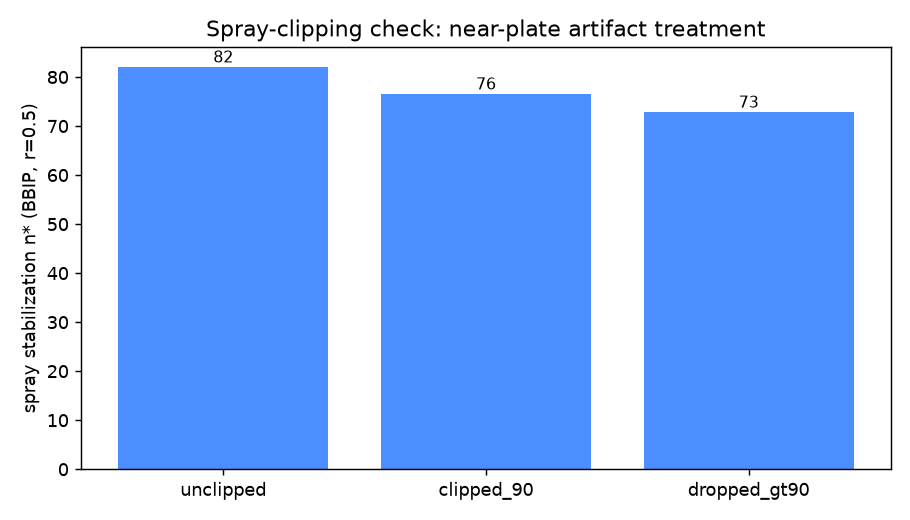
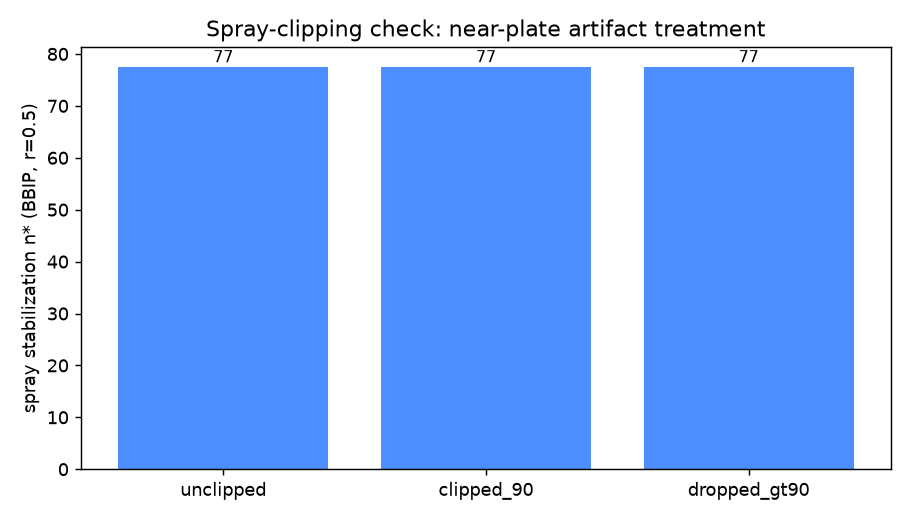
finished c1, stuck on c2 going to retry

diff --git a/src/analysis/claim1_eval.py b/src/analysis/claim1_eval.py
@@ -40,14 +40,14 @@ measurement. Errors add in quadrature:
 
 so every model, however good, pays the same irreducible noise tax and RMSE is
 trapped in a narrow band. On the 2024 frame that tax is ~60-70% of the mean squared
-error in every stratum (low stratum: floor 0.0472 of an observed 0.0600), which
+error in every stratum (low stratum: floor 0.0465 of an observed 0.0591), which
 compresses real differences into what looks like rounding. `score` therefore reports
 `noise_floor` and the deconvolved `model_rmse` alongside the raw PA-weighted RMSE.
 The raw metric is unchanged and remains the frozen §5.2 number; the extra columns
 only make it legible.
 
 The floor is per stratum, not global — it is set by how many PA sit in THAT
-stratum's answer key (low ~103 PA -> 0.0472; high ~232 PA -> 0.0332). The
+stratum's answer key (low ~96 PA -> 0.0465; high ~251 PA -> 0.0330). The
 deconvolution assumes model error and target sampling noise are independent, which
 holds because no model sees the held-out season. It is an estimate and is labeled
 as one wherever reported.
@@ -63,13 +63,19 @@ import pandas as pd
 from src.config.splits import load_splits
 
 # Stratum boundaries in prior side-specific PA. Derived from the B.1 result, not
-# chosen by round-number convenience: side-specific wOBA stabilizes at n* ~= 190 PA
-# (variance-components estimate, lab notebook 2026-07-21). Below n*/2 the observed
-# split is noise-dominated — the regime the small-sample thesis exists to serve.
-# Above 2*n* the hitter's own observed split is trustworthy on its own and a model
-# has little to add.
-STABILIZATION_N_STAR = 190
-STRATUM_BOUNDARIES = (STABILIZATION_N_STAR // 2, STABILIZATION_N_STAR * 2)  # (95, 380)
+# chosen by round-number convenience: side-specific wOBA vs LHP stabilizes at
+# n* ~= 226 PA (variance-components estimate on TRAIN seasons, hitters only). Below
+# n*/2 the observed split is noise-dominated — the regime the small-sample thesis
+# exists to serve. Above 2*n* the hitter's own observed split is trustworthy on its
+# own and a model has little to add.
+#
+# The vs-LHP figure anchors the cuts (rather than vs-RHP's 254) because the scarce
+# side is the one the thesis is graded on. Revised 2026-07-27 from 190: the earlier
+# value was estimated on a population that still included pitchers taking their own
+# at-bats, whose ~.15 wOBA inflated between-hitter signal variance and so biased n*
+# downward. Hitters-only CI [199, 264].
+STABILIZATION_N_STAR = 226
+STRATUM_BOUNDARIES = (STABILIZATION_N_STAR // 2, STABILIZATION_N_STAR * 2)  # (113, 452)
 STRATUM_NAMES = ("low", "medium", "high")
 
 # A hitter with a handful of held-out PA has an essentially random observed wOBA;
@@ -136,7 +142,11 @@ def build_eval_frame(pa_df, predictions, eval_season, min_eval_pa=MIN_EVAL_PA,
     pa_df: PA-level eval targets; predictions: frame with batter/season/p_throws/pred_woba.
     Returns (eval_frame, coverage) where coverage records what was dropped and why.
     """
-    from src.data.eval_targets import aggregate
+    from src.data.eval_targets import aggregate, drop_pitcher_batters
+
+    # claim 1 projects HITTERS; pitchers taking their own turn at bat are not the
+    # population. A no-op on DH-era eval seasons, correct on any earlier one.
+    pa_df = drop_pitcher_batters(pa_df)
 
     assert set(KEY + ["pred_woba"]).issubset(predictions.columns), \
         f"predictions must have {KEY + ['pred_woba']}, got {list(predictions.columns)}"
@@ -235,6 +245,11 @@ def deconvolve(rmse, floor):
     return float(np.sqrt(max(0.0, rmse**2 - floor**2)))
 
 
+# ponytail: model-vs-model claims currently compare two absolute RMSEs, each inflated
+# by the same target noise. The powerful form is a PAIRED loss differential —
+# per-hitter squared-error differences, where the shared noise largely cancels —
+# bootstrapped over hitters within stratum for a CI (Diebold-Mariano). Deferred to the
+# first genuine head-to-head (C.2 vs C.1) since it needs two real models to be useful.
 def skill_score(model_rmse, reference_model_rmse):
     """
     Share of the reference's true error the model eliminates, in variance terms:

diff --git a/src/data/eval_targets.py b/src/data/eval_targets.py
@@ -128,6 +128,55 @@ def build(snapshot_dir, seasons=None, weights=None):
     return df
 
 
+# Mirror of clean.py's position-player-pitcher rule, in the batting direction. Real
+# pitchers face hundreds of batters a season; a pitcher who ALSO takes a full slate of
+# PA is a two-way player (Ohtani) and is a genuine hitter, so both conditions are
+# required. Thresholds match clean.py's for consistency.
+PITCHER_MIN_BATTERS_FACED = 50
+TWO_WAY_MIN_PA = 50
+
+
+def primarily_pitchers(pa_df):
+    """
+    Batter ids that are pitchers taking their own turn at bat, per season.
+
+    The eval-target table is built from the COMPLETE source on purpose, so it contains
+    every PA including NL pitchers batting before the 2022 universal DH — roughly half
+    the distinct batters in 2015-2021. That is correct for the target itself (ground
+    truth must not be filtered), but any quantity describing HITTER talent — a prior,
+    a stabilization point, a league average a projection shrinks toward — must exclude
+    them, or a population of ~.15-wOBA non-hitters contaminates it.
+
+    Returns a set of (season, batter) pairs.
+    """
+    out = set()
+    for season, frame in pa_df.groupby("season"):
+        pa_key = frame[["batter", "game_pk", "at_bat_number"]].drop_duplicates()
+        batted = pa_key.groupby("batter").size()
+        faced = frame[["pitcher", "game_pk", "at_bat_number"]].drop_duplicates().groupby("pitcher").size()
+
+        real_pitchers = set(faced[faced >= PITCHER_MIN_BATTERS_FACED].index)
+        two_way = set(batted[batted >= TWO_WAY_MIN_PA].index)
+        # only ids that actually took a PA are meaningful here — a pitcher who never
+        # batted needs no exclusion and would just clutter the set
+        out.update((season, batter)
+                   for batter in (real_pitchers & set(batted.index)) - two_way)
+    return out
+
+
+def drop_pitcher_batters(pa_df):
+    """
+    Remove pitchers' own plate appearances. Use for every hitter-talent quantity;
+    never for the evaluation target itself.
+    """
+    excluded = primarily_pitchers(pa_df)
+    if not excluded:
+        return pa_df
+    keys = pd.MultiIndex.from_arrays([pa_df["season"], pa_df["batter"]])
+    mask = ~keys.isin(excluded)
+    return pa_df[mask]
+
+
 def aggregate(pa_df, by=("batter", "season", "p_throws")):
     """
     Roll the PA-level table up to wOBA per group (default: hitter x season x pitcher hand).

diff --git a/tests/test_eval_targets.py b/tests/test_eval_targets.py
@@ -88,3 +88,46 @@ def test_aggregate_splits_by_pitcher_hand():
     by_hand = dict(zip(agg["p_throws"], agg["woba"]))
     assert by_hand["R"] == pytest.approx(2.0)   # lone HR / denom 1
     assert by_hand["L"] == pytest.approx(0.0)   # lone strikeout / denom 1
+
+
+# ---- gates: pitcher-batter identification (hitter-talent quantities only) ----
+
+def _pa_rows(rows):
+    """(batter, pitcher, season, n) -> PA-level frame with unique PA keys."""
+    records, pa_id = [], 0
+    for batter, pitcher, season, n in rows:
+        for _ in range(n):
+            pa_id += 1
+            records.append({"batter": batter, "pitcher": pitcher, "season": season,
+                            "game_pk": pa_id, "at_bat_number": 1,
+                            "woba_points": 0.3, "in_denominator": True})
+    return pd.DataFrame(records)
+
+
+def test_pitcher_taking_his_own_at_bats_is_excluded():
+    """Faces 300 batters, takes 12 PA -> an NL pitcher hitting. Not a hitter."""
+    df = _pa_rows([(600, 500, 2019, 300), (500, 998, 2019, 12)])
+    assert (2019, 500) in et.primarily_pitchers(df)
+    assert 500 not in set(et.drop_pitcher_batters(df)["batter"])
+
+
+def test_two_way_player_is_retained_as_a_hitter():
+    """Faces 300 batters AND takes 500 PA -> Ohtani. Both conditions required."""
+    df = _pa_rows([(700, 999, 2021, 500), (800, 700, 2021, 300)])
+    assert (2021, 700) not in et.primarily_pitchers(df)
+    assert 700 in set(et.drop_pitcher_batters(df)["batter"])
+
+
+def test_position_player_who_mopped_up_is_retained():
+    """Faces 6 batters in a blowout, takes 500 PA -> a hitter, not a pitcher."""
+    df = _pa_rows([(750, 999, 2019, 500), (860, 750, 2019, 6)])
+    assert (2019, 750) not in et.primarily_pitchers(df)
+    assert 750 in set(et.drop_pitcher_batters(df)["batter"])
+
+
+def test_exclusion_is_per_season_not_career():
+    """A player who pitches one season and hits the next is judged season by season."""
+    df = _pa_rows([(600, 500, 2019, 300), (500, 998, 2019, 12),
+                   (500, 998, 2021, 400)])
+    excluded = et.primarily_pitchers(df)
+    assert (2019, 500) in excluded and (2021, 500) not in excluded

diff --git a/src/analysis/b1_report.py b/src/analysis/b1_report.py
@@ -16,6 +16,7 @@ import numpy as np
 import pandas as pd
 
 from src.analysis import stabilization as stab
+from src.data.eval_targets import primarily_pitchers
 
 OUT = "results/phase_b"
 MAX_TRAIN_SEASON = 2023
@@ -175,9 +176,15 @@ def main():
                               columns=["batter", "season", "p_throws", "game_pk", "at_bat_number",
                                        "swing", "contact", "ev", "la", "spray"])
     labeled = labeled[labeled["season"] <= MAX_TRAIN_SEASON]
-    pa = pd.read_parquet("data/processed/eval_targets_pa.parquet",
-                         columns=["batter", "season", "p_throws", "woba_points", "in_denominator"])
+    pa = pd.read_parquet("data/processed/eval_targets_pa.parquet")
     pa = pa[(pa["season"] <= MAX_TRAIN_SEASON) & (pa["in_denominator"] == 1)]
+    # Pitchers taking their own turn at bat (NL, pre-2022 DH) are ~40% of distinct
+    # batters in these seasons and hit ~.15. They are not the hitter population any
+    # stabilization point describes, and their spread inflates between-hitter signal
+    # variance, biasing n* downward. Excluded from BOTH tables, keyed by (season, batter).
+    excluded = primarily_pitchers(pa)
+    pa = pa[~pd.MultiIndex.from_arrays([pa["season"], pa["batter"]]).isin(excluded)]
+    labeled = labeled[~pd.MultiIndex.from_arrays([labeled["season"], labeled["batter"]]).isin(excluded)]
 
     panel = build_panel(labeled, pa)
     factors = conversion_factors(labeled)

diff --git a/src/analysis/c1_trailing.py b/src/analysis/c1_trailing.py
@@ -38,7 +38,7 @@ season, including the league average the predictions shrink toward.
 
 import pandas as pd
 
-from src.data.eval_targets import aggregate
+from src.data.eval_targets import aggregate, drop_pitcher_batters
 
 TRAILING_SEASONS = 3
 
@@ -97,6 +97,9 @@ def predict(pa_df, eval_season, variant="bucketed", n_seasons=TRAILING_SEASONS,
     Returns a frame with batter/season/p_throws/pred_woba, ready for claim1_eval.
     """
     assert variant in {"raw", "bucketed"}, f"unknown variant {variant!r}"
+    # pitchers batting (pre-2022 NL) would drag the league average a projection
+    # shrinks toward well below any real hitter's level
+    pa_df = drop_pitcher_batters(pa_df)
 
     window = trailing_window(pa_df, eval_season, n_seasons)
     league = league_average(window)

diff --git a/tests/test_claim1_eval.py b/tests/test_claim1_eval.py
@@ -22,11 +22,16 @@ from src.analysis import claim1_eval as ce
 def pa_table(rows):
     """Build a minimal PA-level eval-target table from (batter, season, hand, n_pa, woba) tuples."""
     records = []
+    pa_id = 0
     for batter, season, hand, n_pa, woba in rows:
         for _ in range(n_pa):
+            pa_id += 1
             records.append({
                 "batter": batter, "season": season, "p_throws": hand,
                 "woba_points": woba, "in_denominator": True,
+                # a real pitcher id (never a batter here) so the pitcher-batter
+                # filter has the columns it needs and drops nothing
+                "pitcher": 900001, "game_pk": pa_id, "at_bat_number": 1,
             })
     return pd.DataFrame(records)
 

diff --git a/tests/test_c1_trailing.py b/tests/test_c1_trailing.py
@@ -17,11 +17,14 @@ from src.analysis import c1_trailing as c1
 def pa_table(rows):
     """Build a PA-level eval-target table from (batter, season, hand, n_pa, woba_points) tuples."""
     records = []
+    pa_id = 0
     for batter, season, hand, n_pa, points in rows:
         for _ in range(n_pa):
+            pa_id += 1
             records.append({
                 "batter": batter, "season": season, "p_throws": hand,
                 "woba_points": points, "in_denominator": True,
+                "pitcher": 900001, "game_pk": pa_id, "at_bat_number": 1,
             })
     return pd.DataFrame(records)
 

diff --git a/docs/decision-log.md b/docs/decision-log.md
@@ -83,7 +83,7 @@ Append-only. Format fixed by `~/os/knowledge/frameworks/research-standards.md`
 
 ---
 
-## 2026-07-24 — C.1 trailing-average design: 3-season window, both shrinkage variants
+## 2026-07-27 — C.1 trailing-average design: 3-season window, both shrinkage variants
 - **Decision:** The Phase C.1 baseline uses a **3-season trailing window** and is built in **two variants, both reported**: `raw` (predict the hitter's observed trailing side-specific wOBA unshrunk; side-specific league average only where he has zero prior PA vs that hand) and `bucketed` (blend his trailing wOBA toward the side-specific league average by a fixed weight per PA bucket: <50 PA → 0.0, 50–199 → 0.5, 200+ → 1.0). Implemented in `src/analysis/c1_trailing.py` (10 gates in `tests/test_c1_trailing.py`).
 - **Alternatives:** All-prior-seasons window (rejected on measurement, below). Last-3 only as convention (accepted, but on evidence rather than convention). A single shrunk variant (rejected: it collapses C.1 into a crude duplicate of C.2 and destroys the decomposition). A single unshrunk variant (rejected alone: catastrophic in low exposure, and beating it proves little — a reviewer calls it a strawman).
 - **Rationale:** *Window* — decided by measurement, not preference. On the 2024 eval frame a 3-season window costs the low-exposure stratum essentially nothing (median prior PA 10.5 → 10.0; the same 117 groups sit at zero either way), because low-exposure hitters are young or newly arrived and their whole career already falls inside the window. It only trims veterans, who have ample sample regardless (median 963 → 590 PA). So the recency/aging benefit is free in exactly the stratum the thesis is graded on. *Both variants* — the pair decomposes a quantity a single variant hides: raw→bucketed measures the value of shrinkage at all; bucketed→C.2 measures the value of doing shrinkage properly; C.2→Phase D measures the value of cross-hitter structure, which is the thesis. The marginal cost is one parameter and one scoring run.
@@ -93,10 +93,24 @@ Append-only. Format fixed by `~/os/knowledge/frameworks/research-standards.md`
 
 ---
 
-## 2026-07-24 — Noise-floor deconvolution added as a companion to the claim-1 metric
+## 2026-07-27 — Noise-floor deconvolution added as a companion to the claim-1 metric
 - **Decision:** `src/analysis/claim1_eval.py` now reports, alongside the frozen §5.2 PA-weighted RMSE, two companion columns per stratum: `noise_floor` (the irreducible RMSE contributed by sampling noise in the held-out target) and `model_rmse` (`sqrt(RMSE² − floor²)`, clamped at zero). A `skill_score(model, reference)` helper expresses a model as `1 − (model/reference)²` — the share of between-hitter talent variance it captures, where the no-information baseline is 0 and perfect is 1. **The frozen metric itself is unchanged**; these are additive columns for legibility, not a replacement.
 - **Alternatives:** Reporting raw PA-weighted RMSE alone as §5.2 specifies (rejected: see rationale). Replacing RMSE with a skill score (rejected: §5.2 is frozen, and the raw number must stay comparable to anything already computed). Estimating the floor by simulation (rejected: the analytic within-group variance is exact under the same independence assumption and costs nothing).
 - **Rationale:** The held-out "actual" side-specific wOBA is itself a small-sample measurement, so errors add in quadrature: `observed RMSE² = model error² + target noise²`. Measured on the 2024 eval frame, that noise is **60–70% of the mean squared error in every stratum** (low: floor 0.0472 of an observed 0.0600). The consequence is that raw RMSE compresses real differences into what reads as rounding — a model cutting true error in half moves RMSE only 0.0600 → 0.0507, and a genuinely strong result would look like a null. It also charges the model for luck it could not have predicted: batter `677956` was predicted at league average (.3131) and "actually" hit .5737 in 31 PA, which is noise, not a miss. Independent validation: the deconvolved error of the no-information baseline came out at 0.0368, and B.1's variance-components estimator independently put the between-hitter signal SD for side-specific wOBA at √0.00137 = 0.0370 — different code, different quantity, agreement to three digits, exactly as theory requires (predicting league average for everyone must yield an error equal to the full talent spread).
 - **Reference:** the same signal/noise decomposition as B.1's variance-components estimator (`src/analysis/stabilization.py`, decision log 2026-07-21), applied to the evaluation target rather than the predictor.
 - **Tier:** 2. Assumption stated: model error and target sampling noise are independent, which holds because no model reads the held-out season. The floor is an estimate and is labeled as one wherever reported. It is per stratum, not global (low 0.0472 at ~103 mean eval PA; high 0.0332 at ~232).
 - **Revisit if:** a model's raw RMSE lands materially below its estimated floor in any stratum — that would indicate the floor is biased high (e.g. wOBA points are not conditionally independent within a hitter-season) rather than that the model is better than perfect.
+
+---
+
+## 2026-07-27 — Pitchers' own at-bats excluded from every hitter-talent quantity
+- **Decision:** `src/data/eval_targets.py` gains `primarily_pitchers` / `drop_pitcher_batters`: a batter is excluded, per season, when he faced >= 50 batters AND took < 50 PA. Both conditions are required so two-way players (Ohtani) remain hitters. Applied to every quantity describing HITTER talent — B.1 stabilization, the C.1 league average, and `claim1_eval` scoring. **Deliberately NOT applied to the evaluation target itself**, which stays built from the complete unfiltered source per the two-table principle (2026-07-15).
+- **Alternatives:** Filtering in `clean.py` (rejected: `clean.py` produces the modeling table, and the affected quantities are all built from the eval-target table, which by design bypasses it). A career-level rather than per-season rule (rejected: role changes season to season). A PA-only threshold (rejected: would drop genuine September call-ups, who ARE the low-exposure population the thesis targets).
+- **Rationale:** The eval-target table is built from the complete source on purpose, so it contains NL pitchers batting before the 2022 universal DH — **1,223 of 2,487 distinct train-season batters, median 12 PA, mean wOBA .153**. That is correct for ground truth but wrong for any prior, stabilization point, or league average, where a population of ~.15-wOBA non-hitters inflates between-hitter signal variance. The bug was found by a bin-wise diagnostic in which observed variance fell *below* its own claimed sampling floor — impossible unless the noise model was inflated, which it was: pooled within-PA variance is 0.261, but a pitcher's is 0.137. Filter validated two ways: it tracks actual DH rule history (2015–19 and 2021 drop 267–328 batters, 2020 drops 3, 2022+ drop 2–6) and retains Ohtani in every season including his two-way years.
+- **Supersedes (numbers only, methods unchanged):**
+  - **2026-07-21 "Variance-components estimator added alongside split-half"** and the 2026-07-21 lab-notebook entry: side-specific wOBA n* was reported as **190 PA vs LHP / 198 vs RHP**. Hitters-only values are **226 [198, 265] and 254 [223, 287]**. The process metrics barely move (whiff 29.7 PA-equiv, swing 31.6, EV 66.8, LA 68.5, spray 114.5), so the process-beats-outcome gap WIDENS: whiff ~7.6x and spray ~2.0x, against the previously reported ~7x and ~1.6x. The B.1 headline is strengthened, not weakened, by the correction.
+  - **2026-07-27 "C.1 trailing-average design"**: strata boundaries move from (95, 380) to **(113, 452)** with `STABILIZATION_N_STAR` 190 -> 226. C.1's conclusions are unchanged; the high-exposure skill score moves 36% -> 39%.
+  - **2026-07-27 "Noise-floor deconvolution"**: low-stratum floor 0.0472 -> **0.0465**, no-info reference RMSE 0.0600 -> **0.0591**.
+- **Reference:** mirrors the position-player-pitcher rule in `src/data/clean.py` (2026-07-15 cleaning spec), in the batting direction, with the same thresholds.
+- **Tier:** 1 — a contaminated prior population is an evaluation-validity defect, not a preference. 4 gates added in `tests/test_eval_targets.py`.
+- **Revisit if:** a future season reintroduces pitchers batting in volume, or the 50-PA two-way threshold misclassifies a genuine two-way player.

diff --git a/docs/lab-notebook.md b/docs/lab-notebook.md
@@ -49,3 +49,14 @@ not raw stream-of-consciousness.
 - **Found:** The survivorship bias was real and material. Split-half put wOBA vs LHP at ~435 PA; variance-components on all 2142 hitters puts it at ~190. The gap is entirely population, not estimator: the two agree on a fixed population, but restricting to durable regulars halves the between-hitter signal variance (0.00137 to 0.00073) and so doubles n* (190 to ~385). On a common PA axis the honest process-beats-outcome gap is several-fold, not an order of magnitude: whiff ~28 PA-equiv (~7x), swing ~31, launch angle ~62, exit velocity ~63 (~3x), spray ~122 (~1.6x) vs wOBA ~190-198. Matched side-specific process stays fast (whiff vs LHP 45, vs RHP 50, ~ pooled 51), so the gap is not an artifact of the outcome being split by hand. Spray-clipping barely helps: dropping the ~1% |spray|>90 near-plate artifact moves n* from 82 to 73 (VC), so spray remains the slowest process signal regardless. The premise holds robustly under every estimator and split; only the magnitude shrank from the survivorship-inflated 07-20 figure.
 - **Learned:** variance-components / one-way-random-effects reliability and its equivalence to Cronbach's alpha and KR-21; survivorship bias in split-half-at-each-n and how to detect it (n* stable when the estimator is restricted to the survivor subpopulation); the r=0.5 vs r=0.7 threshold distinction and the regression-to-the-mean / shrinkage reading of n* = noise/signal; random vs sequential (across-circumstance) split-half.
 - **Next:** Run the deferred Phase A /research-review before promoting B.1 to a logged finding, then start B.2 GBM feature screening (XGBoost + SHAP on the 48 context features against the process outcomes, through the frozen split, tuned on val never test) in a fresh session. Open: the spray label decision (drop |spray|>90 vs keep) now has evidence — the gain is small and would require a labels.py change plus a parquet regen, so it is Nate's call, not yet made.
+
+---
+
+## 2026-07-27 — Phase C opens: the claim-1 metric, the C.1 baselines, and a contaminated hitter population
+- **Did:** Built the claim-1 evaluation harness (`src/analysis/claim1_eval.py`, 27 gates) — PA-weighted RMSE plus rank correlation, stratified by prior side-specific exposure, with noise-floor deconvolution as a companion. Built the C.1 trailing-average baselines in two variants, raw and bucketed (`src/analysis/c1_trailing.py`, 10 gates). Found and fixed a contaminated hitter population: pitchers taking their own at-bats were in every hitter-talent quantity in the project. Added `primarily_pitchers` / `drop_pitcher_batters` to `src/data/eval_targets.py` (4 gates), applied it to B.1, C.1 and the harness, and regenerated the B.1 artifacts. Started C.2 (empirical-Bayes shrinkage constant) but **reverted it** — see Open. Three decision-log entries.
+- **Why:** The harness had to exist before any baseline produced a number — a yardstick authored by someone who already knows whose result it will flatter is not a yardstick. C.1 is built in two variants because the pair decomposes what a single variant hides: raw to bucketed measures the value of shrinkage at all, bucketed to C.2 the value of doing it properly, and C.2 to Phase D the value of cross-hitter structure, which is the thesis. The 3-season trailing window was settled by measurement rather than convention: it costs the low-exposure stratum essentially nothing because those hitters' whole careers already sit inside it.
+- **Found:** (1) Trailing averages are **worse than ignoring the hitter entirely** below high exposure — skill -30% (low) and -115% (medium) against a league-average reference, turning positive only above ~452 prior PA (+39%). (2) Raw PA-weighted RMSE is **60-70% target noise** in every stratum, so real differences read as rounding; a model halving its true error moves RMSE only 0.0591 to ~0.0507. The deconvolution's independent check held: the no-info baseline's deconvolved error (.0366) equals the between-hitter talent SD from B.1's separate estimator (.0370). (3) **1,223 of 2,487 train-season "batters" were pitchers** (median 12 PA, .153 wOBA, within-PA variance .137 against the pooled .261 the code assumed). Correcting it moved side-specific wOBA n* from 190/198 to 226/254 and, because the process metrics barely moved, WIDENED the B.1 process-beats-outcome gap to ~7.6x (whiff) and ~2.0x (spray).
+- **Learned:** noise-floor deconvolution and why RMSE against a noisy target is floor-dominated, so a genuinely large improvement reads as a rounding difference; that an unbiased estimator can still be unusable, because plain method-of-moments returns negative variances when a 2-PA hitter's sampling-variance term exceeds any plausible true variance; the Diebold-Mariano paired loss-differential idea as the powerful form of model-vs-model comparison (deferred, marked in code); and that a diagnostic showing observed variance BELOW its own claimed noise floor is proof the noise model is wrong — which is how the pitcher contamination surfaced, and later how a second noise-model error surfaced too.
+- **Mistakes worth keeping:** I assumed `clean.py` had removed pitchers batting — it removes the mirror image, position players *pitching*, and the eval-target table bypasses `clean.py` by design anyway. Separately, the abandoned C.2 attempt used ONE pooled within-PA variance per pitcher hand for every hitter; the real values differ by batter-hand x pitcher-hand cell (LHB vs LHP is .2374, not .261), and that single wrong assumption drove the whole C.2 estimate. Both were caught by Nate's questions, not by the gates. A third: my estimator gates only tested sample sizes 10-100x larger than the real ones, so they could not have caught a regime-specific failure.
+- **Open:** C.2 was reverted after the noise model proved wrong; it restarts from scratch. Carry forward into the retry: (a) within-PA variance must be cell-specific, not pooled by pitcher hand; (b) `scipy.optimize.minimize_scalar(method="bounded")` silently returns its convergence floor when the true variance is ~0, printing a confident-looking constant that is pure artifact — any variance-component estimator needs a floor guard; (c) gates must cover the ACTUAL sample sizes, not just large-n; (d) whether to shrink the split or the rate should be revisited — rate-level components looked well identified, split-level ones did not. Also outstanding: Phase C numbers are still produced by ad-hoc commands rather than a committed report script, so a `c_report.py` following the `b1_report.py` pattern is owed before any Phase C result is promoted. The deferred Phase A/B `/research-review` still gates promoting B.1, B.2 and now C.1.
+- **Next:** Restart C.2 in a fresh session with the carry-forward items above, then C.3.
